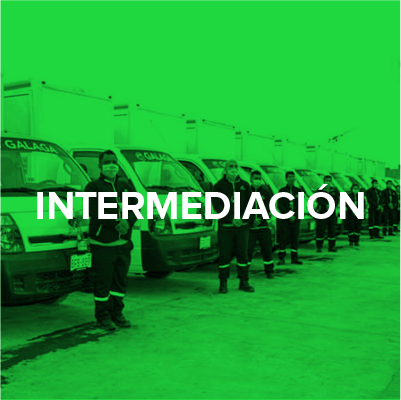
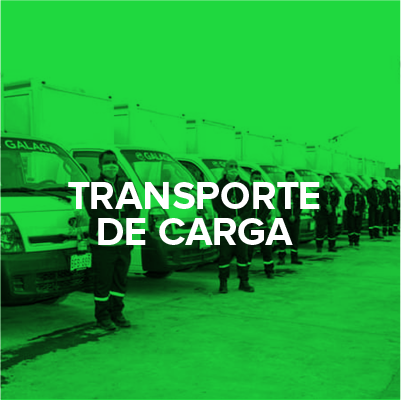
servicios

Changed region(s): [[0.0898, 0.45, 0.9277, 0.63]]

diff --git a/vistas/servicios.php b/vistas/servicios.php
@@ -65,7 +65,7 @@ include_once 'plantillas/nav/index.php';
 
             <div class="content-info-serv wow fadeIn" data-wow-delay="0.4s">
                 <div class="title-serv">
-                    <h2>INTERMEDIACIÓN</h2>
+                    <h2>TRANSPORTE DE CARGA</h2>
                 </div>
                 <div class="grid-subservicios">
                     <div class="photo-servicio">

diff --git a/app/config.inc.php b/app/config.inc.php
@@ -7,7 +7,7 @@
 
 //rutas de la web
 //https://galagaa.herokuapp.com/
-//http://localhost/barrigafong/
+//http://localhost/galagaa/
 
 define("SERVIDOR", "https://galagaa.herokuapp.com/");
 define("RUTA_NOSOTROS", SERVIDOR."nosotros");
